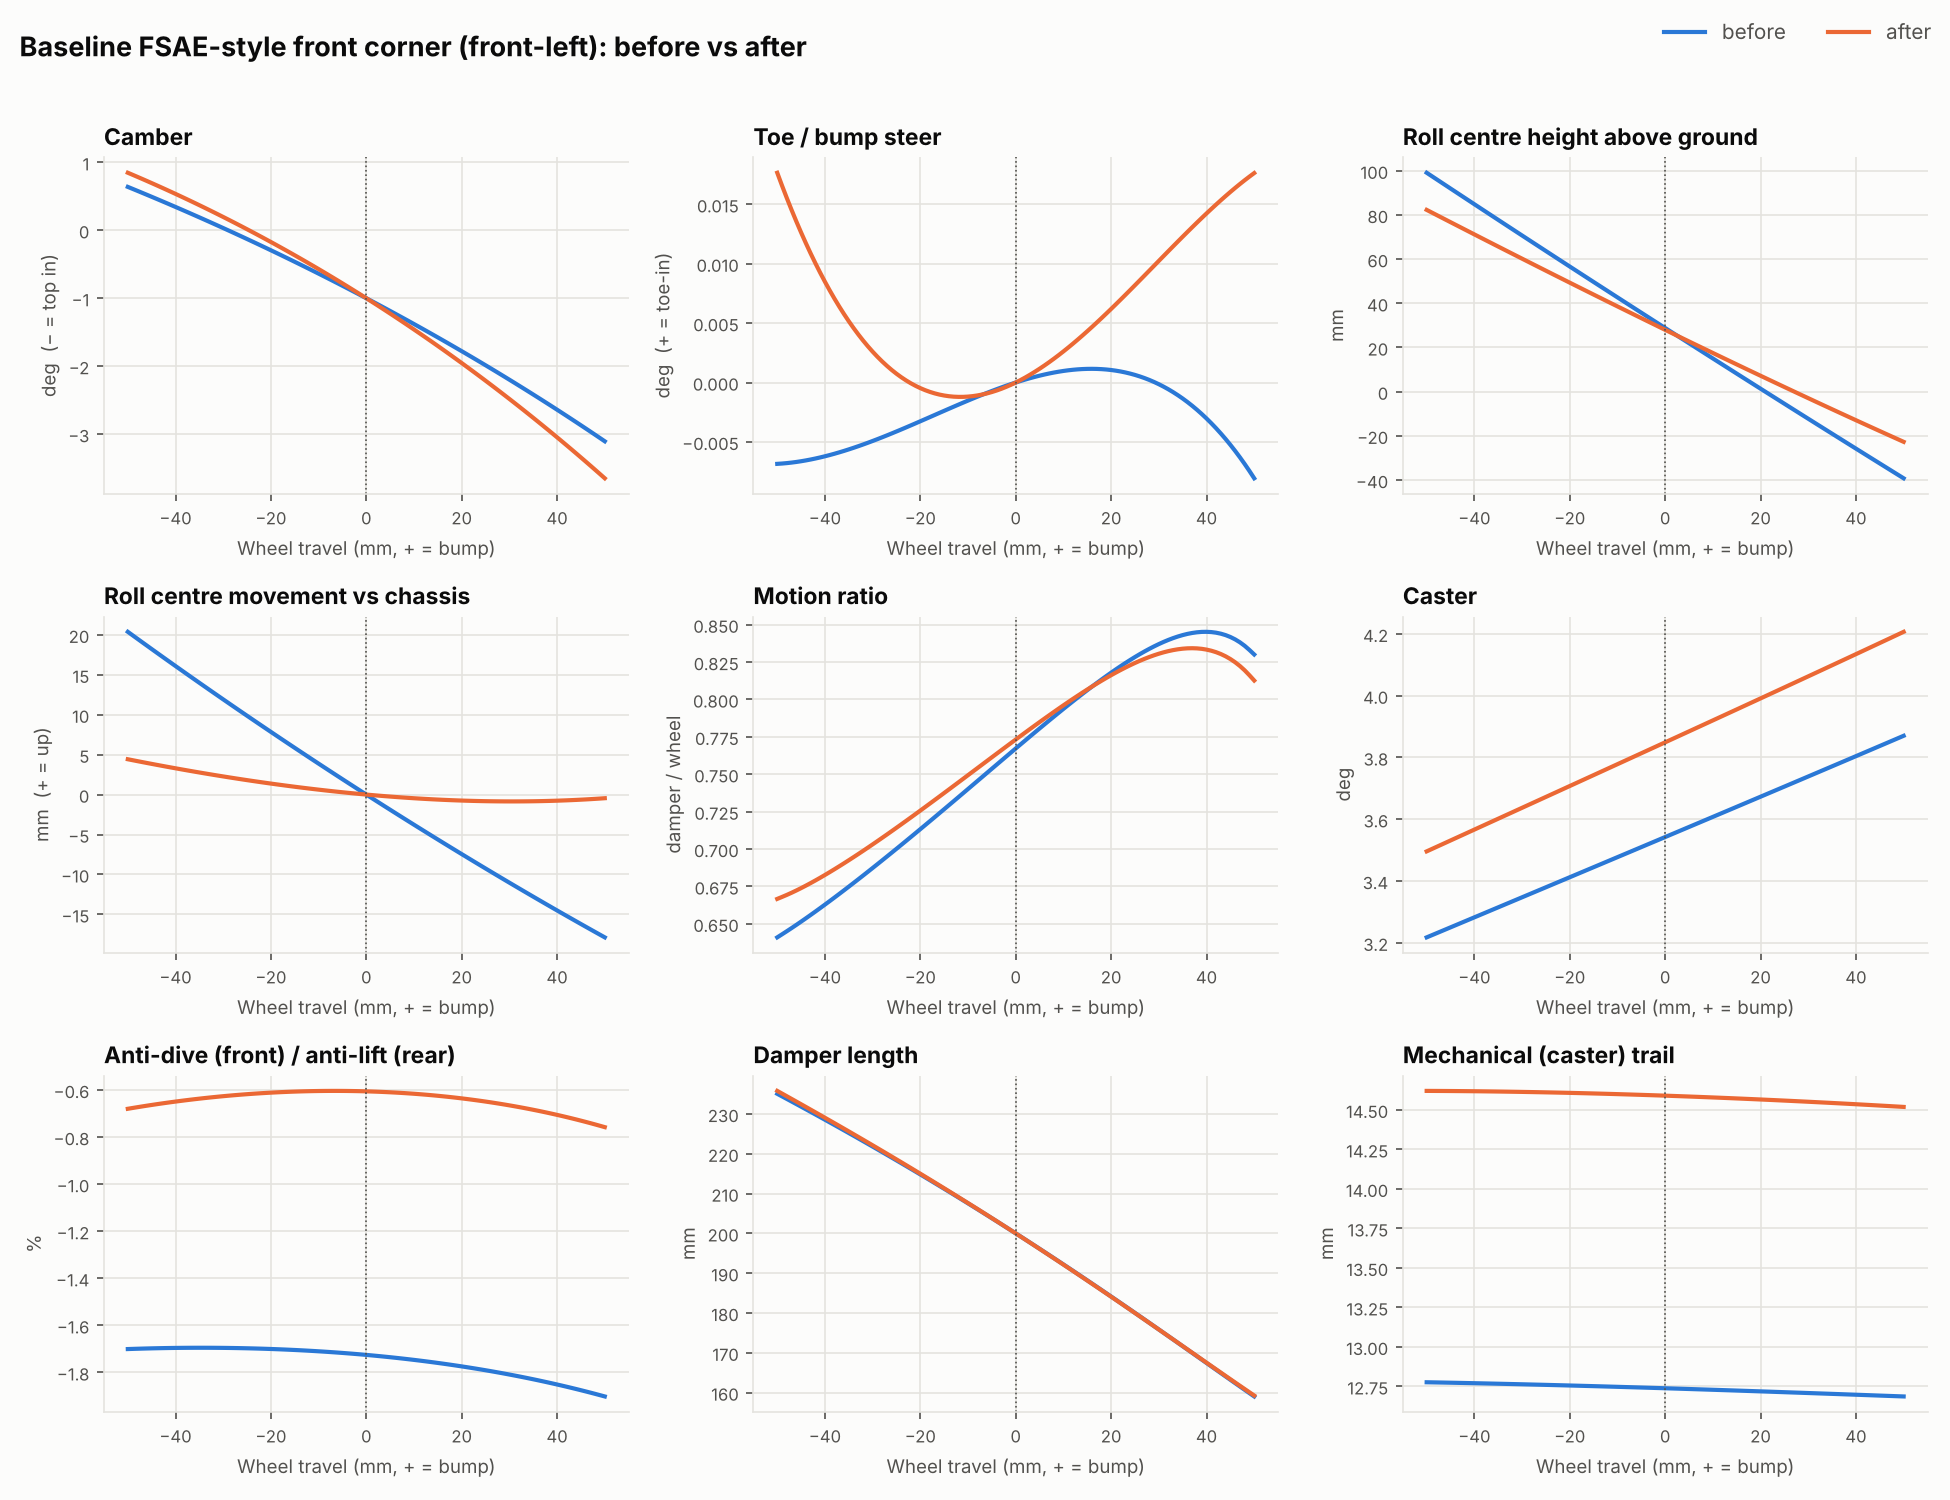
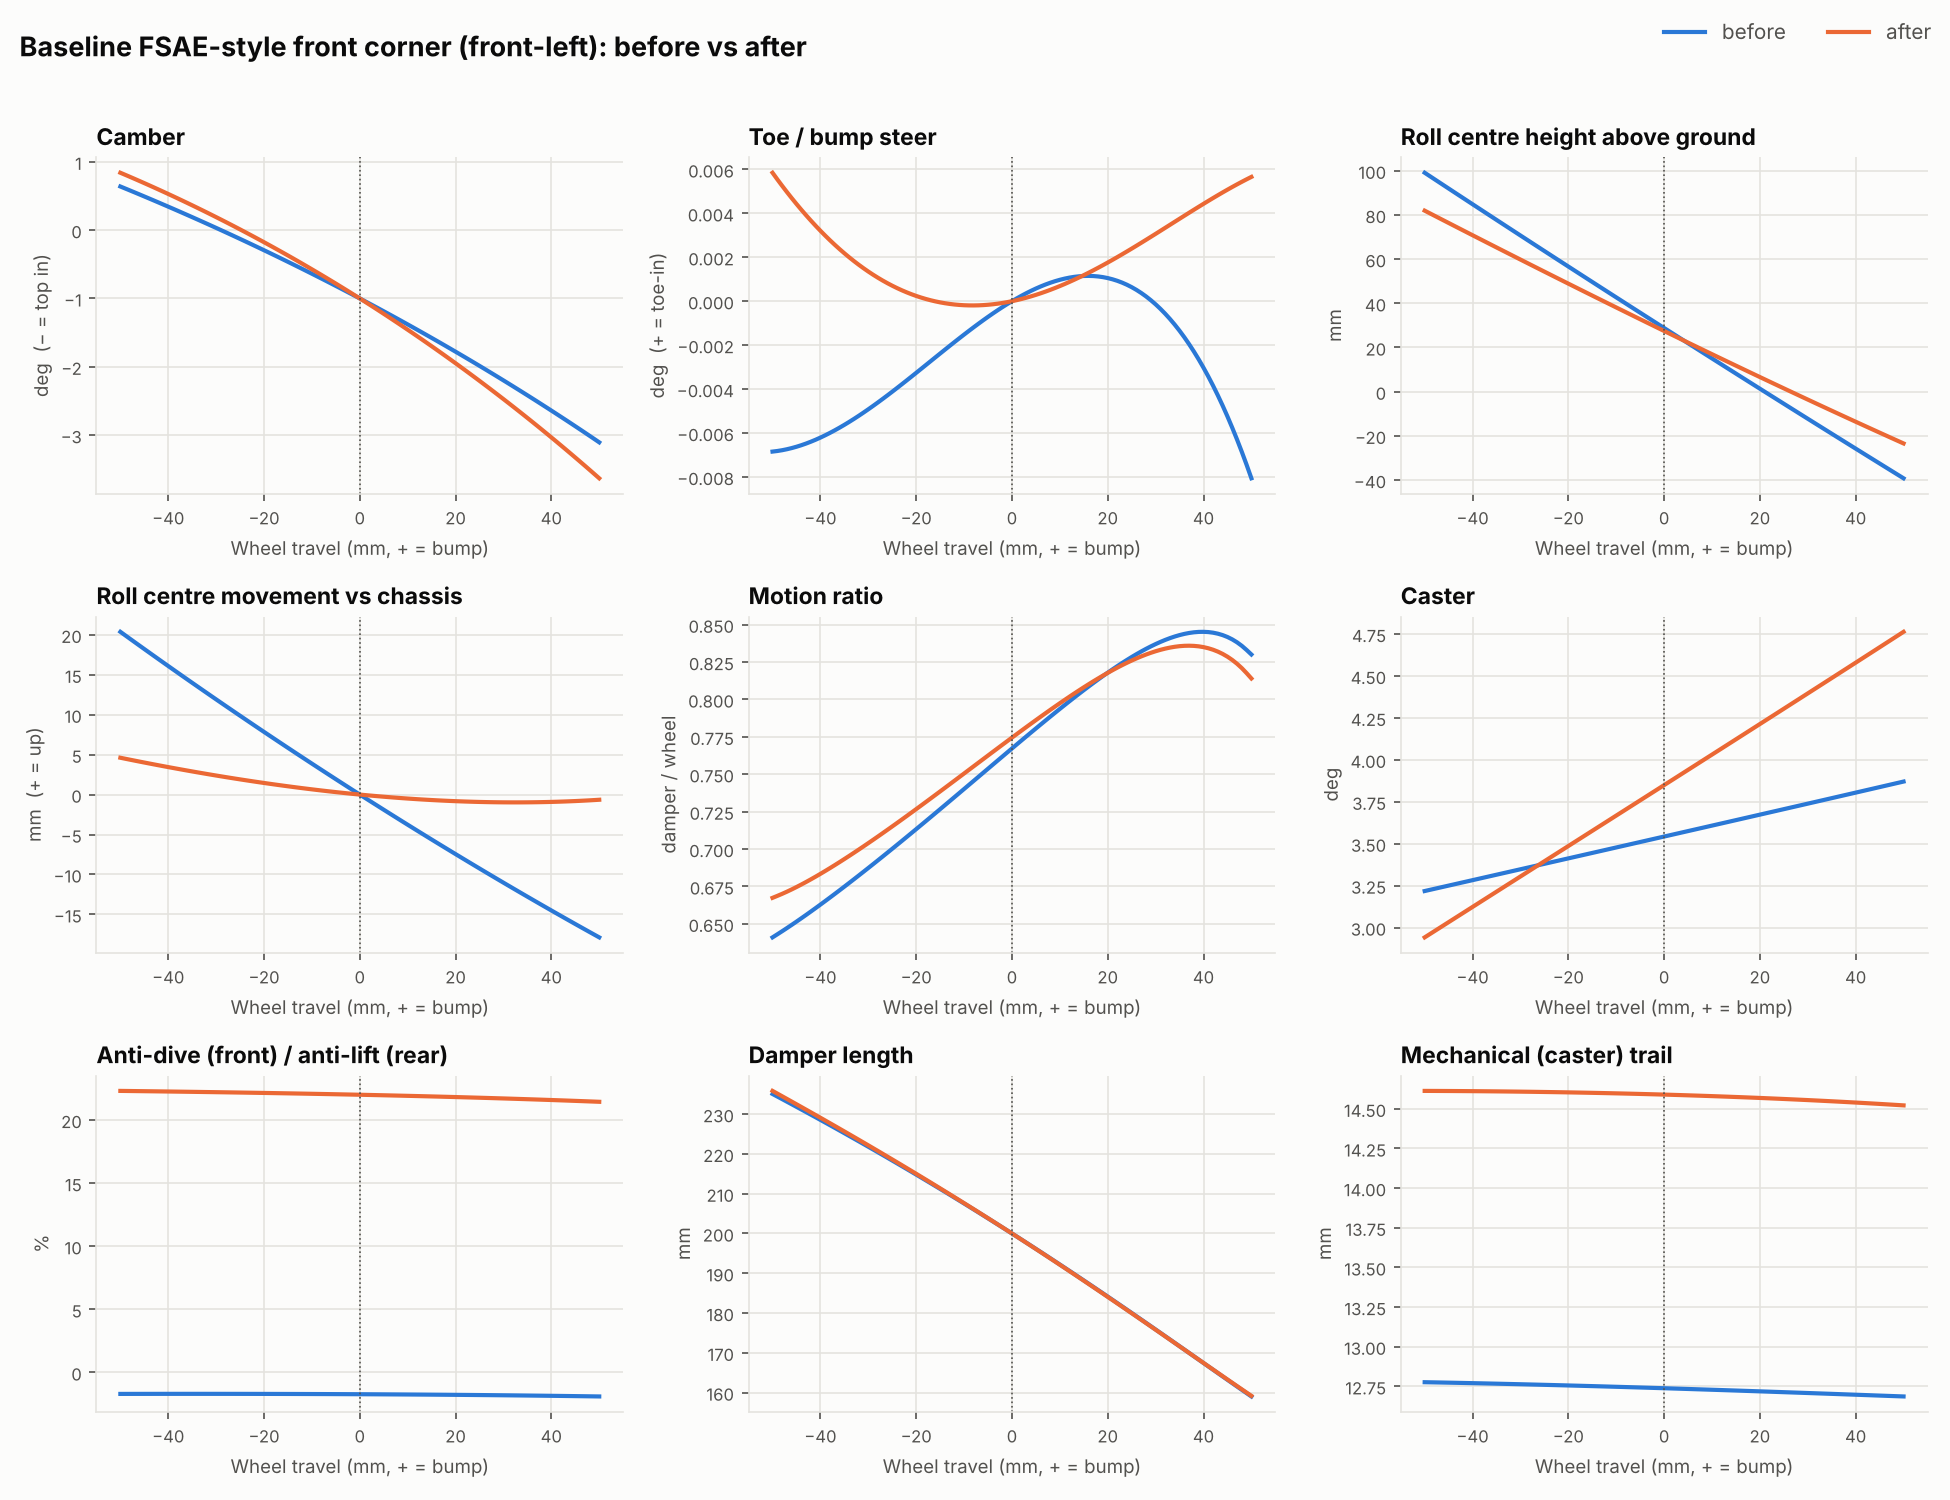
Apply anti-dive and Ackermann changes to the optimised design
Lower-arm pivots tilted 5 mm (anti-dive -0.6% -> 22%), RTO 20 mm outboard
(Ackermann -16% -> +17%), rack re-tuned 0.6 mm out / 0.7 mm down so bump
steer drops to 0.007 deg. Still inside the rim envelope.

Claude-Session: https://claude.ai/code/session_01998wzqVqqwWgM9JsDEFkoe

diff --git a/tests/test_steering.py b/tests/test_steering.py
@@ -99,3 +99,15 @@ def test_cli_steer_writes_outputs(tmp_path):
     main(["steer", str(DATA), "--rack", "10", "--step", "2", "--out", str(tmp_path)])
     for suffix in ("_steer.csv", "_steer.png"):
         assert (tmp_path / f"{DATA.stem}{suffix}").exists()
+
+
+def test_optimised_design_has_pro_ackermann_and_anti_dive():
+    """The Phase 4 changes applied to data/optimized_front.json."""
+    opt = sk.load_hardpoints(DATA.parent / "optimized_front.json")
+    v = sk.VehicleParams.from_hardpoints(opt)
+    steer = sk.steering_summary(sk.steering_metrics(sk.steer_sweep(opt, 25, 1), v))
+    assert steer["ackermann_at_lock_pct"] > 10
+    bump = sk.summary(sk.compute_metrics(sk.bump_sweep(opt, 50, 2), v), v)
+    assert 15 < bump["anti_dive_pct"] < 30
+    assert bump["toe_range_deg"] < 0.02
+    assert all(c.ok for c in sk.check_packaging(opt))

diff --git a/README.md b/README.md
@@ -163,6 +163,10 @@ and parts are rigid (no compliance in bushes or the rocker).
 | `bj_spread` | distance between the ball joints (mm), for joint and arm loads | 210 | 211 | 195 |
 | `kpi` | kingpin inclination (deg) | 5.5 | 5.4 | 5.9 |
 
+(These "optimised" numbers are the optimiser's own output. The file has since
+had the Phase 4 anti-dive and Ackermann changes applied, which move RC height
+to 27.5 mm and bump steer to 0.007°; see Phase 4 below.)
+
 Two more goals are available but not switched on in the default config:
 `motion_ratio` (static damper/wheel ratio) and `anti_dive` (%). Rocker points
 (`PRO`, `PRI`, `RKP`, `SHR`, `SHC`) can be used as variables too.
@@ -248,7 +252,8 @@ trail) is in the sweep output too.
 
 The baseline has about −2% anti-dive (very slightly pro-dive): its arm pivots
 are nearly level in side view. Lowering the lower arm's front pivot 5 mm and
-raising its rear pivot 5 mm gives about 19%.
+raising its rear pivot 5 mm gives about 19% (see *Applied to the optimised
+design* below).
 
 ### Steering and Ackermann
 
@@ -272,6 +277,32 @@ with it.
 
 Race cars often run well under 100% Ackermann, because at speed the loaded
 outside tyre works at a bigger slip angle. It's a tuning choice.
+
+### Applied to the optimised design
+
+`data/optimized_front.json` now carries both changes on top of the Phase 2
+optimiser result (the baseline is left as it was, as the "before"):
+
+| Change | Why |
+|---|---|
+| Lower-arm front pivot (`LAF`) 5 mm down, rear pivot (`LAA`) 5 mm up | anti-dive |
+| Outer tie-rod end (`RTO`) 20 mm outboard | Ackermann |
+| Rack (`RTI`) 0.6 mm outboard and 0.7 mm down | cancels the bump steer the `RTO` move added |
+
+| | Before | After |
+|---|---|---|
+| Anti-dive | −0.6% | 22% |
+| Ackermann at full lock | −16% | +17% |
+| Toe change over ±50 mm (bump steer) | 0.019° | 0.007° |
+| Camber gain per 10 mm | −0.445° | −0.442° |
+| Roll-centre height | 28.0 mm | 27.5 mm |
+| Roll-centre movement vs chassis | −0.051 | −0.055 |
+| `RTO` clearance to the rim barrel / hub face | | 5.9 mm / 6.4 mm |
+
+Caster, KPI, scrub, trail and motion ratio don't change. The rack position was
+found with a quick two-variable search for the smallest toe change over the
+sweep. The `RTO` move uses up most of the room left inside the rim, so it's
+about as far as it can go there.
 
 ## Working on more than one PC
 
